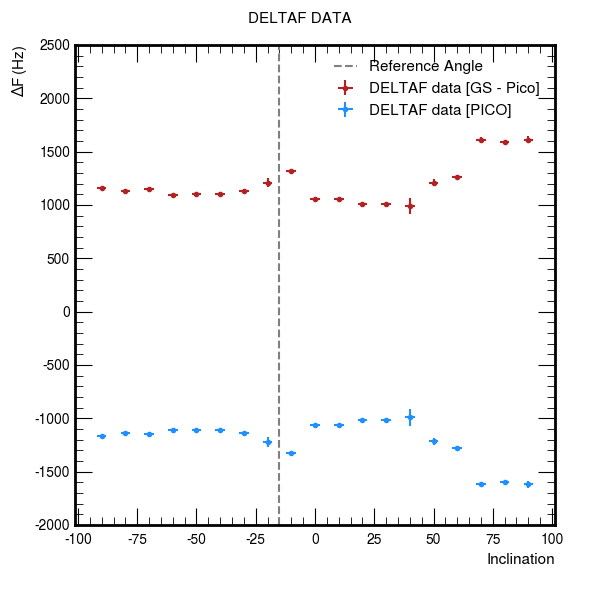
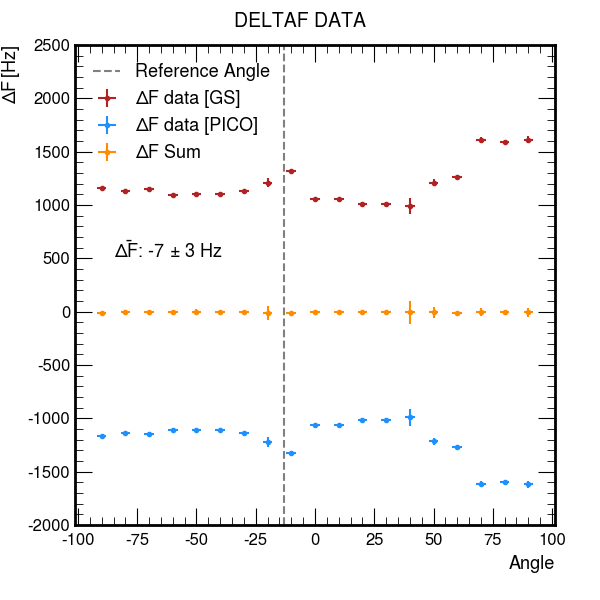
Enhance LRT data analysis and plotting with new metrics
Updated data_analyst.py to improve plot aesthetics, add weighted mean DELTAF sum calculation, and implement parabolic fitting for RSSI means. Added new plots for RSSI/SNR standard deviations and RSSI loss with horizon profile overlay. Several new and updated PNG images were generated to reflect these changes. The SatelliteDB.db was also updated.

diff --git a/dataanalysis/2Long_range_test/data_analyst.py b/dataanalysis/2Long_range_test/data_analyst.py
@@ -12,23 +12,24 @@ from scipy.odr import *
 import struct
 import pandas as pd
 import argparse
+from PIL import Image
 
 from groundstation.database import Jdata as jd
 
 # Setting the plot style
 plt.style.use(hep.style.ROOT)
-params = {'legend.fontsize': '10',
+params = {'legend.fontsize': '14',
          'legend.loc': 'upper right',
           'legend.frameon':       'True',
           'legend.framealpha':    '0.8',      # legend patch transparency
           'legend.facecolor':     'w', # inherit from axes.facecolor; or color spec
           'legend.edgecolor':     'w',      # background patch boundary color
           'figure.figsize': (6, 4),
-         'axes.labelsize': '10',
+         'axes.labelsize': '24',
          'figure.titlesize' : '14',
-         'axes.titlesize':'12',
-         'xtick.labelsize':'10',
-         'ytick.labelsize':'10',
+         'axes.titlesize':'14',
+         'xtick.labelsize':'12',
+         'ytick.labelsize':'12',
          'lines.linewidth': '1',
          'text.usetex': False,
 #         'axes.formatter.limits': '-5, -3',
@@ -51,6 +52,7 @@ Sangle = 10/np.sqrt(24)
 # We want to extract all packets related to LRT tests. The comment field contains
 # values come "LRT_<numero>". Escludi "LRTdata".
 pattern = 'LRT_%'
+#pattern = 'LRTel_%' # Use only for elevation tests
 
 #============= FUNCTIONS =============#
 
@@ -86,6 +88,7 @@ def extract_from_db():
     # Fill vectors with data
     for pkt_id, rssi, snr, payload, deltaf, comment in rows:
         if comment.startswith('LRT_'):
+        #if comment.startswith('LRTel_'): # Use only for elevation tests
             ID.append(pkt_id)
             RSSI.append(rssi)
             SNR.append(snr)
@@ -96,6 +99,7 @@ def extract_from_db():
     for com in COMMENT:
         # Comment format: LRT_<number>
         if(com.split('_')[0] == 'LRT'):
+        #if(com.split('_')[0] == 'LRTel'):  # Use only for elevation tests
             angle_str = com.split('_')[1]  # Get the part after the underscore
             angle_value = float(angle_str)  # Convert to float
             ANGLE.append(angle_value)
@@ -182,6 +186,7 @@ def get_RSSI_mean(unique_angles, RSSI, ANGLE):
     unique_angles_sorted_list = list(unique_angles_sorted)
     RSSI_mean_sorted_list = list(RSSI_mean_sorted)
     RSSI_std_sorted_list = list(RSSI_std_sorted)
+
     return np.array(unique_angles_sorted_list), np.array(RSSI_mean_sorted_list), np.array(RSSI_std_sorted_list)
 
 # Function to compute the mean SNR for each unique angle
@@ -201,6 +206,11 @@ def get_SNR_mean(unique_angles, SNR, ANGLE):
         # Saving the mean SNR value for the specific angle
         SNR_mean.append(np.mean(snr_values))
         SNR_std.append(statistics.stdev(snr_values))
+
+        if SNR_std[-1] > 3:
+            print(ang)
+            print(snr_values)
+            print(" ------ ")
 
     # Sorting the SNR means and angles based on increasing angle
     sorted_pairs = sorted(zip(unique_angles, SNR_mean, SNR_std))
@@ -240,7 +250,14 @@ def get_DELTAF_mean(unique_angles, DELTAF, ANGLE):
     DELTAF_std_sorted_list = list(DELTAF_std_sorted)
     return np.array(unique_angles_sorted_list), np.array(DELTAF_mean_sorted_list), np.array(DELTAF_std_sorted_list)
 
-#=============e MAINl CODE =============#
+# Function definition - Parabolic function
+def fitf(par, x):
+    """par[0]*x^2 + par[1]*x + par[2]"""
+    return par[0]*x**2 + par[1]*x + par[2]
+
+# ============= MAIN CODE ===========================
+
+# ============= DATA EXTRACTION SECTION =============
 
 # Extracting data from database
 ID, RSSI, SNR, DELTAF, COMMENT, ANGLE = extract_from_db()
@@ -249,7 +266,8 @@ ID, RSSI, SNR, DELTAF, COMMENT, ANGLE = extract_from_db()
 ID_lora, RSSI_lora, SNR_lora, DELTAF_lora = extract_from_db_lora_pong(ID)
 
 # Not extract data with specific IDs
-ids_to_remove = {193, 194, 203}
+ids_to_remove = {193, 194, 203, 115, 309, 287, 174, 187, 268, 242, 345, 340, 335, 327, 330, 322}
+#ids_to_remove = {193, 194, 203, 115}
 filtered = [(i, r, s, d, c, a) for i, r, s, d, c, a in zip(ID, RSSI, SNR, DELTAF, COMMENT, ANGLE) if i not in ids_to_remove]
 filtered_lora = [(i, r, s, d) for i, r, s, d in zip(ID_lora, RSSI_lora, SNR_lora, DELTAF_lora) if i not in ids_to_remove]
 if filtered and filtered_lora:
@@ -260,10 +278,10 @@ else:
     ID_lora, RSSI_lora, SNR_lora, DELTAF_lora = [], [], [], []
 
 # Printing data
-print("DATA EXTRACTED FROM DB:")
-print("ID \t ANGLE \t RSSI \t SNR")
-for i in range (len(ID)):
-    print(ID[i], ANGLE[i], RSSI[i], SNR[i])
+# print("DATA EXTRACTED FROM DB:")
+# print("ID \t ANGLE \t RSSI \t SNR")
+# for i in range (len(ID)):
+#     print(ID[i], ANGLE[i], RSSI[i], SNR[i])
 
 # Computing the values mean and std for each unique angle from GS
 angle, rssi_mean, rssi_std = get_RSSI_mean(set(ANGLE), RSSI, ANGLE)
@@ -280,10 +298,19 @@ RSSI_diff = rssi_mean - rssi_lora_mean
 RSSI_diff_std = np.sqrt(rssi_std**2 + rssi_lora_std**2)
 SNR_diff = snr_mean - snr_lora_mean
 SNR_diff_std = np.sqrt(snr_std**2 + snr_lora_std**2)
-DELTAF_diff = deltaf_mean - deltaf_lora_mean
-DELTAF_diff_std = np.sqrt(deltaf_std**2 + deltaf_lora_std**2)
+DELTAF_sum = deltaf_mean + deltaf_lora_mean
+DELTAF_sum_std = np.sqrt(deltaf_std**2 + deltaf_lora_std**2)
+
+# Computing weighted mean DELTAF sum
+weights = 1 / (DELTAF_sum_std ** 2)
+DELTAF_sum_weighted_mean = np.sum(DELTAF_sum * weights) / np.sum(weights)
+DELTAF_sum_weighted_std = np.sqrt(1 / np.sum(weights))
+
+print(" ")
+print("Weighted Mean DELTAF Sum: ", DELTAF_sum_weighted_mean, " +- ", DELTAF_sum_weighted_std)
 
 # Printing max RSSI ans SNR values
+print(" ")
 print("MAX RSSI GS: ", max(rssi_mean), " at angle ", angle[np.argmax(rssi_mean)])
 print("MAX RSSI PICO: ", max(rssi_lora_mean), " at angle ", angle_lora[np.argmax(rssi_lora_mean)])
 print("MAX SNR GS: ", max(snr_mean), " at angle ", angle[np.argmax(snr_mean)])
@@ -316,22 +343,47 @@ RSSI_lora_loss_std = np.sqrt(rssi_lora_std**2 + max_rssi_lora_std**2)
 RSSI_loss_diff = RSSI_loss - RSSI_lora_loss
 RSSI_loss_diff_std = np.sqrt(RSSI_loss_std**2 + RSSI_lora_loss_std**2)
 
+# ============= RSSI FITTING AND ZERO ANGLE CALCULATION =============
+
+# Filter angles for fitting: only -10, 0, -20, -30
+fit_angles = [0, -10, -20, -30, 10]
+fit_mask = [a in fit_angles for a in angle]
+angle_fit = angle[fit_mask]
+rssi_mean_fit = rssi_mean[fit_mask]
+rssi_std_fit = rssi_std[fit_mask]
+
+# Fitting RSSI means with a parabolic function (filtered)
+function_model = Model(fitf)
+graph_data = RealData(angle_fit, rssi_mean_fit, sx=Sangle, sy=rssi_std_fit)
+odr = ODR(graph_data, function_model, beta0=[-1, 0, max(rssi_mean_fit)])
+out = odr.run()
+params = out.beta
+params_err = out.sd_beta
+chi = out.sum_square
+zero_angle = [-params[1]/(2*params[0]), np.sqrt(pow(params_err[1]/(2*params[0]), 2) + pow(params[1]*params_err[0]/(2*params[0]**2), 2))]
+print("Parabolic fitting (filtered angles): ")
+print("Max value: ", params[2], " +- ", params_err[2])
+print("Zero angle founded: ", zero_angle[0], "+-", zero_angle[1])
+
+# ============= PLOTTING SECTION =============
+
 # Plotting RSSI mean points
-fig, ax = plt.subplots(2, 1, figsize=(6, 6),sharex=True, height_ratios= (2, 1))
-fig.suptitle("RSSI DATA", fontsize=11, fontweight = 2)
-ax[0].errorbar(angle,rssi_mean,xerr = Sangle, yerr = rssi_std, fmt='o', label=r'RSSI data [GS]',ms=3,color='firebrick', zorder = 2, lw = 1.5)
-ax[0].errorbar(angle, rssi_lora_mean, xerr = Sangle, yerr = rssi_lora_std, fmt='o', label=r'RSSI data [PICO]',ms=3,color='dodgerblue', zorder = 1, lw = 1.5)
-ax[0].axvline(x=-15, color='gray', linestyle='--', linewidth=1.5, label = 'Reference Angle')
-ax[0].set_ylabel(r'$RSSI \, [dbm]$', size = 11)
-ax[0].set_xlabel(r'Inclination', size = 11)
-ax[0].legend(prop={'size': 11}, loc='upper right', frameon=False).set_zorder(2)
-ax[1].errorbar(angle, RSSI_diff, yerr=RSSI_diff_std, fmt='o', ms=3, color='darkorange', zorder=3, lw=1.5)
-ax[1].legend([r'RSSI Difference [GS - PICO]'], prop={'size': 11}, loc='upper right', frameon=False).set_zorder(2)
-ax[1].set_ylabel(r'$RSSI \, [dbm]$', size = 11)
-ax[1].set_xlabel(r'Inclination', size = 11)
-ax[1].axvline(x=-15, color='gray', linestyle='--', linewidth=1.5)
-ax[1].set_ylim([-5, 10])
-ax[0].set_ylim([-122, -93])
+fig, ax = plt.subplots(1, 1, figsize=(6, 6),sharex=True)
+fig.suptitle("RSSI DATA", fontsize=14, fontweight = 2)
+ax.errorbar(angle,rssi_mean,xerr = Sangle, yerr = rssi_std, fmt='o', label=r'RSSI data [GS]',ms=3,color='firebrick', zorder = 2, lw = 1.5)
+ax.errorbar(angle, rssi_lora_mean, xerr = Sangle, yerr = rssi_lora_std, fmt='o', label=r'RSSI data [PICO]',ms=3,color='dodgerblue', zorder = 1, lw = 1.5)
+#ax.errorbar(np.linspace(min(angle_fit), max(angle_fit), 100), fitf(params, np.linspace(min(angle_fit), max(angle_fit), 100)), yerr=None, fmt='-', label='Parabolic Fit [GS]', color='darkred', zorder=3, lw=1.5)
+ax.axvline(x=zero_angle[0], color='gray', linestyle='--', linewidth=1.5, label = 'Reference Angle')
+ax.set_ylabel(r'$RSSI \, [dbm]$', size = 13)
+ax.set_xlabel(r'Angle', size = 13)
+ax.legend(prop={'size': 13}, loc='upper right', frameon=False).set_zorder(2)
+# ax[1].errorbar(angle, RSSI_diff, yerr=RSSI_diff_std, fmt='o', ms=3, color='darkorange', zorder=3, lw=1.5)
+# ax[1].legend([r'RSSI Difference [GS - PICO]'], prop={'size': 11}, loc='upper right', frameon=False).set_zorder(2)
+# ax[1].set_ylabel(r'$RSSI \, [dbm]$', size = 11)
+# ax[1].set_xlabel(r'Inclination', size = 11)
+# ax[1].axvline(x=-15, color='gray', linestyle='--', linewidth=1.5)
+# ax[1].set_ylim([-5, 10])
+ax.set_ylim([-122, -93])
 plt.savefig('./dataanalysis/2Long_range_test/RSSI_mean'+'.png',
             pad_inches = 1,
             transparent = True,
@@ -341,21 +393,21 @@ plt.savefig('./dataanalysis/2Long_range_test/RSSI_mean'+'.png',
             dpi = 100)
 
 # Plotting SNR mean points
-fig, ax = plt.subplots(2, 1, figsize=(6, 6),sharex=True, height_ratios= (2, 1))
-fig.suptitle("SNR DATA", fontsize=11, fontweight = 2)
-ax[0].errorbar(angle,snr_mean,xerr = Sangle, yerr = snr_std, fmt='o', label=r'SNR data [GS - Pico]',ms=3,color='firebrick', zorder = 2, lw = 1.5)
-ax[0].errorbar(angle_lora, snr_lora_mean, xerr = Sangle, yerr = snr_lora_std, fmt='o', label=r'SNR data [PICO]',ms=3,color='dodgerblue', zorder = 1, lw = 1.5)
-ax[0].axvline(x=-15, color='gray', linestyle='--', linewidth=1.5, label = 'Reference Angle')
-ax[0].set_ylabel(r'$SNR \, (db)$', size = 11)
-ax[0].set_xlabel(r'Inclination', size = 11)
-ax[0].legend(prop={'size': 11}, loc='upper right', frameon=False).set_zorder(2)
-ax[1].errorbar(angle, SNR_diff, yerr=SNR_diff_std, fmt='o', ms=3, color='darkorange', zorder=3, lw=1.5)
-ax[1].legend([r'SNR Difference [GS - PICO]'], prop={'size': 11}, loc='upper right', frameon=False).set_zorder(2)
-ax[1].set_ylabel(r'$SNR \, (db)$', size = 11)
-ax[1].set_xlabel(r'Inclination', size = 11)
-ax[1].axvline(x=-15, color='gray', linestyle='--', linewidth=1.5)
-ax[0].set_ylim([-8, 26])
-ax[1].set_ylim([-15, 13])
+fig, ax = plt.subplots(1, 1, figsize=(6, 6),sharex=True)
+fig.suptitle("SNR DATA", fontsize=14, fontweight = 2)
+ax.errorbar(angle,snr_mean,xerr = Sangle, yerr = snr_std, fmt='o', label=r'SNR data [GS]',ms=3,color='firebrick', zorder = 2, lw = 1.5)
+ax.errorbar(angle_lora, snr_lora_mean, xerr = Sangle, yerr = snr_lora_std, fmt='o', label=r'SNR data [PICO]',ms=3,color='dodgerblue', zorder = 1, lw = 1.5)
+ax.axvline(x=zero_angle[0], color='gray', linestyle='--', linewidth=1.5, label = 'Reference Angle')
+ax.set_ylabel(r'$SNR \, [db]$', size = 13)
+ax.set_xlabel(r'Angle', size = 13)
+ax.legend(prop={'size': 13}, loc='upper right', frameon=False).set_zorder(2)
+# ax[1].errorbar(angle, SNR_diff, yerr=SNR_diff_std, fmt='o', ms=3, color='darkorange', zorder=3, lw=1.5)
+# ax[1].legend([r'SNR Difference [GS - PICO]'], prop={'size': 13}, loc='upper right', frameon=False).set_zorder(2)
+# ax[1].set_ylabel(r'$SNR \, (db)$', size = 13)
+# ax[1].set_xlabel(r'Inclination', size = 13)
+# ax[1].axvline(x=-15, color='gray', linestyle='--', linewidth=1.5)
+ax.set_ylim([-8, 26])
+#ax[1].set_ylim([-15, 13])
 plt.savefig('./dataanalysis/2Long_range_test/SNR_mean'+'.png',
             pad_inches = 1,
             transparent = True,
@@ -366,13 +418,15 @@ plt.savefig('./dataanalysis/2Long_range_test/SNR_mean'+'.png',
 
 # Plotting DELTAF mean points
 fig, ax = plt.subplots(1, 1 , figsize=(6, 6),sharex=True)
-fig.suptitle("DELTAF DATA", fontsize=11, fontweight = 2)
-ax.errorbar(angle,deltaf_mean,xerr = Sangle, yerr = deltaf_std, fmt='o', label=r'DELTAF data [GS - Pico]',ms=3,color='firebrick', zorder = 2, lw = 1.5)
-ax.errorbar(angle_lora, deltaf_lora_mean, xerr = Sangle, yerr = deltaf_lora_std, fmt='o', label=r'DELTAF data [PICO]',ms=3,color='dodgerblue', zorder = 1, lw = 1.5)
-ax.axvline(x=-15, color='gray', linestyle='--', linewidth=1.5, label = 'Reference Angle')
-ax.set_ylabel(r'$\Delta F \, (Hz)$', size = 11)
-ax.set_xlabel(r'Inclination', size = 11)
-ax.legend(prop={'size': 11}, loc='upper right', frameon=False).set_zorder(2)
+fig.suptitle("DELTAF DATA", fontsize=14, fontweight = 2)
+ax.errorbar(angle,deltaf_mean,xerr = Sangle, yerr = deltaf_std, fmt='o', label=r'ΔF data [GS]',ms=3,color='firebrick', zorder = 2, lw = 1.5)
+ax.errorbar(angle_lora, deltaf_lora_mean, xerr = Sangle, yerr = deltaf_lora_std, fmt='o', label=r'ΔF data [PICO]',ms=3,color='dodgerblue', zorder = 1, lw = 1.5)
+ax.axvline(x=zero_angle[0], color='gray', linestyle='--', linewidth=1.5, label = 'Reference Angle')
+ax.errorbar(angle, DELTAF_sum, xerr = Sangle, yerr = DELTAF_sum_std, fmt='o', label=r'ΔF Sum',ms=3,color='darkorange', zorder = 3, lw = 1.5)
+ax.text(-85, 500, rf'$\bar{{\Delta F}}$: {DELTAF_sum_weighted_mean:.0f} ± {DELTAF_sum_weighted_std:.0f} Hz', fontsize=13)
+ax.set_ylabel(r'$\Delta F \, [Hz]$', size = 13)
+ax.set_xlabel(r'Angle', size = 13)
+ax.legend(prop={'size': 13}, loc='upper left', frameon=False).set_zorder(2)
 ax.set_ylim([-2000, 2500])
 
 plt.savefig('./dataanalysis/2Long_range_test/DELTAF_mean'+'.png',
@@ -383,22 +437,24 @@ plt.savefig('./dataanalysis/2Long_range_test/DELTAF_mean'+'.png',
             orientation ='Portrait',
             dpi = 100)
 
+# Plotting RSSI LOSS without horizon profile
 # Plotting RSSI LOSS
-fig, ax = plt.subplots(2, 1, figsize=(6, 6),sharex=True, height_ratios= (2, 1))
-fig.suptitle("RSSI LOSS DATA", fontsize=11, fontweight = 2)
-ax[0].errorbar(angle,RSSI_loss,xerr = Sangle, yerr = RSSI_loss_std, fmt='o', label=r'RSSI loss [GS]',ms=3,color='firebrick', zorder = 2, lw = 1.5)
-ax[0].errorbar(angle, RSSI_lora_loss, xerr = Sangle, yerr = RSSI_lora_loss_std, fmt='o', label=r'RSSI loss [PICO]',ms=3,color='dodgerblue', zorder = 1, lw = 1.5)
-ax[0].axvline(x=-15, color='gray', linestyle='--', linewidth=1.5, label = 'Reference Angle')
-ax[0].set_ylabel(r'$RSSI \, [dbm]$', size = 11)
-ax[0].set_xlabel(r'Inclination', size = 11)
-ax[0].legend(prop={'size': 11}, loc='upper right', frameon=False).set_zorder(2)
-ax[1].errorbar(angle, RSSI_loss_diff, yerr=RSSI_loss_diff_std, fmt='o', ms=3, color='darkorange', zorder=3, lw=1.5)
-ax[1].legend([r'RSSI loss Difference [GS - PICO]'], prop={'size': 11}, loc='upper right', frameon=False).set_zorder(2)
-ax[1].set_ylabel(r'$RSSI \, [dbm]$', size = 11)
-ax[1].set_xlabel(r'Inclination', size = 11)
-ax[1].axvline(x=-15, color='gray', linestyle='--', linewidth=1.5)
-ax[1].set_ylim([-6, 9.2])
-ax[0].set_ylim([-24, 8])
+fig, ax = plt.subplots(1, 1, figsize=(6, 6),sharex=True)
+fig.suptitle("RSSI LOSS DATA", fontsize=14, fontweight = 2)
+ax.errorbar(angle,RSSI_loss,xerr = Sangle, yerr = RSSI_loss_std, fmt='o', label=r'RSSI loss [GS]',ms=3,color='firebrick', zorder = 2, lw = 1.5)
+ax.errorbar(angle, RSSI_lora_loss, xerr = Sangle, yerr = RSSI_lora_loss_std, fmt='o', label=r'RSSI loss [PICO]',ms=3,color='dodgerblue', zorder = 1, lw = 1.5)
+ax.axvline(x=zero_angle[0], color='gray', linestyle='--', linewidth=1.5, label = 'Reference Angle')
+ax.set_ylabel(r'$RSSI \, [dbm]$', size = 13)
+ax.set_xlabel(r'Angle', size = 13)
+ax.legend(prop={'size': 13}, loc='upper right', frameon=False).set_zorder(2)
+# ax[1].errorbar(angle, RSSI_loss_diff, yerr=RSSI_loss_diff_std, fmt='o', ms=3, color='darkorange', zorder=3, lw=1.5)
+# ax[1].legend([r'RSSI loss Difference [GS - PICO]'], prop={'size': 13}, loc='upper right', frameon=False).set_zorder(2)
+# ax[1].set_ylabel(r'$RSSI \, [dbm]$', size = 13)
+# ax[1].set_xlabel(r'Inclination', size = 13)
+# ax[1].axvline(x=-15, color='gray', linestyle='--', linewidth=1.5)
+# ax[1].set_ylim([-6, 9.2])
+ax.set_ylim([-24, 8])
+
 plt.savefig('./dataanalysis/2Long_range_test/RSSI_loss'+'.png',
             pad_inches = 1,
             transparent = True,
@@ -407,5 +463,53 @@ plt.savefig('./dataanalysis/2Long_range_test/RSSI_loss'+'.png',
             orientation ='Portrait',
             dpi = 100)
 
+# Plotting RSSI LOSS with horizon profile
+fig, ax = plt.subplots(2, 1, figsize=(6, 6),sharex=True, height_ratios=[2, 1])
+fig.suptitle("RSSI LOSS DATA", fontsize=14, fontweight = 2)
+ax[0].errorbar(angle,RSSI_loss,xerr = Sangle, yerr = RSSI_loss_std, fmt='o', label=r'RSSI loss [GS]',ms=3,color='firebrick', zorder = 2, lw = 1.5)
+ax[0].errorbar(angle, RSSI_lora_loss, xerr = Sangle, yerr = RSSI_lora_loss_std, fmt='o', label=r'RSSI loss [PICO]',ms=3,color='dodgerblue', zorder = 1, lw = 1.5)
+ax[0].axvline(x=zero_angle[0], color='gray', linestyle='--', linewidth=1.5, label = 'Reference Angle')
+ax[0].set_ylabel(r'$RSSI \, [dbm]$', size = 13)
+ax[1].set_xlabel(r'Angle', size = 13)
+ax[0].legend(prop={'size': 13}, loc='upper right', frameon=False).set_zorder(2)
+# ax[1].errorbar(angle, RSSI_loss_diff, yerr=RSSI_loss_diff_std, fmt='o', ms=3, color='darkorange', zorder=3, lw=1.5)
+# ax[1].legend([r'RSSI loss Difference [GS - PICO]'], prop={'size': 13}, loc='upper right', frameon=False).set_zorder(2)
+# ax[1].set_ylabel(r'$RSSI \, [dbm]$', size = 13)
+# ax[1].set_xlabel(r'Inclination', size = 13)
+# ax[1].axvline(x=-15, color='gray', linestyle='--', linewidth=1.5)
+# ax[1].set_ylim([-6, 9.2])
+ax[0].set_ylim([-24, 8])
+img = Image.open("./dataanalysis/2Long_range_test/background.PNG")
+ax[1].imshow(img, extent=[-90, 90, RSSI_loss[0], RSSI_loss[-1]], aspect='auto')
+ax[1].set_yticks([])
+ax[1].set_ylabel('Horizon Profile', size=13)
+ax[1].set_xlim([-100, 100])
+plt.savefig('./dataanalysis/2Long_range_test/RSSI_loss_HP'+'.png',
+            pad_inches = 1,
+            transparent = True,
+            facecolor ="w",
+            edgecolor ='w',
+            orientation ='Portrait',
+            dpi = 100)
 
+# Plotting std of RSSI
+fig, ax = plt.subplots(1, 1, figsize=(6, 6),sharex=True)
+fig.suptitle("RSSI STD DATA", fontsize=14, fontweight = 2)
+ax.errorbar(angle,rssi_std,xerr = Sangle, fmt='o', label=r'RSSI std [GS]',ms=3,color='firebrick', zorder = 2, lw = 1.5)
+ax.errorbar(angle_lora, rssi_lora_std, xerr = Sangle, fmt='o', label=r'RSSI std [PICO]',ms=3,color='dodgerblue', zorder = 1, lw = 1.5)
+ax.set_ylabel(r'$RSSI \, std \, [dbm]$', size = 13)
+ax.set_xlabel(r'Angle', size = 13)
+ax.legend(prop={'size': 13}, loc='upper right', frameon=False).set_zorder(2)
+
+# Plotting std of SNR
+fig, ax = plt.subplots(1, 1, figsize=(6, 6),sharex=True)
+fig.suptitle("SNR STD DATA", fontsize=14, fontweight = 2)
+ax.errorbar(angle,snr_std,xerr = Sangle, fmt='o', label=r'SNR std [GS]',ms=3,color='firebrick', zorder = 2, lw = 1.5)
+ax.errorbar(angle_lora, snr_lora_std, xerr = Sangle, fmt='o', label=r'SNR std [PICO]',ms=3,color='dodgerblue', zorder = 1, lw = 1.5)
+ax.set_ylabel(r'$SNR \, std \, [db]$', size = 13)
+ax.set_xlabel(r'Angle', size = 13)  
+ax.legend(prop={'size': 13}, loc='upper right', frameon=False).set_zorder(2)
+ax.set_ylim([0, 11])
+ax.axhline(y=5.5, color='dimgray', linestyle='--', linewidth=1.5)
+ax.text(40, 6, 'Outliers', fontsize=13, color='black')
 plt.show()
